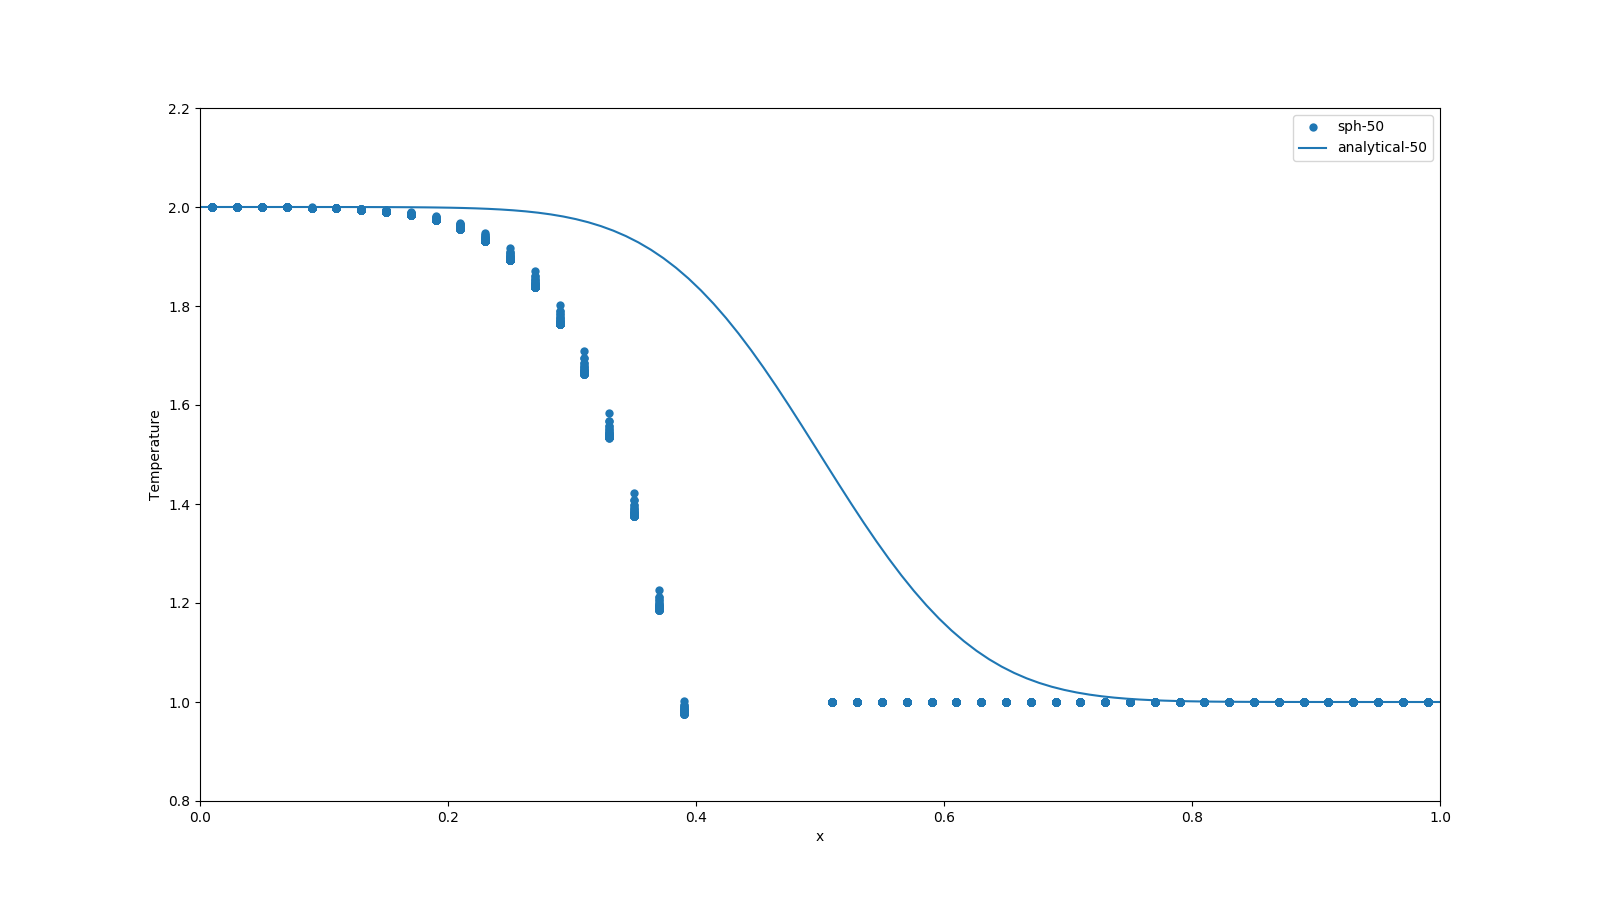
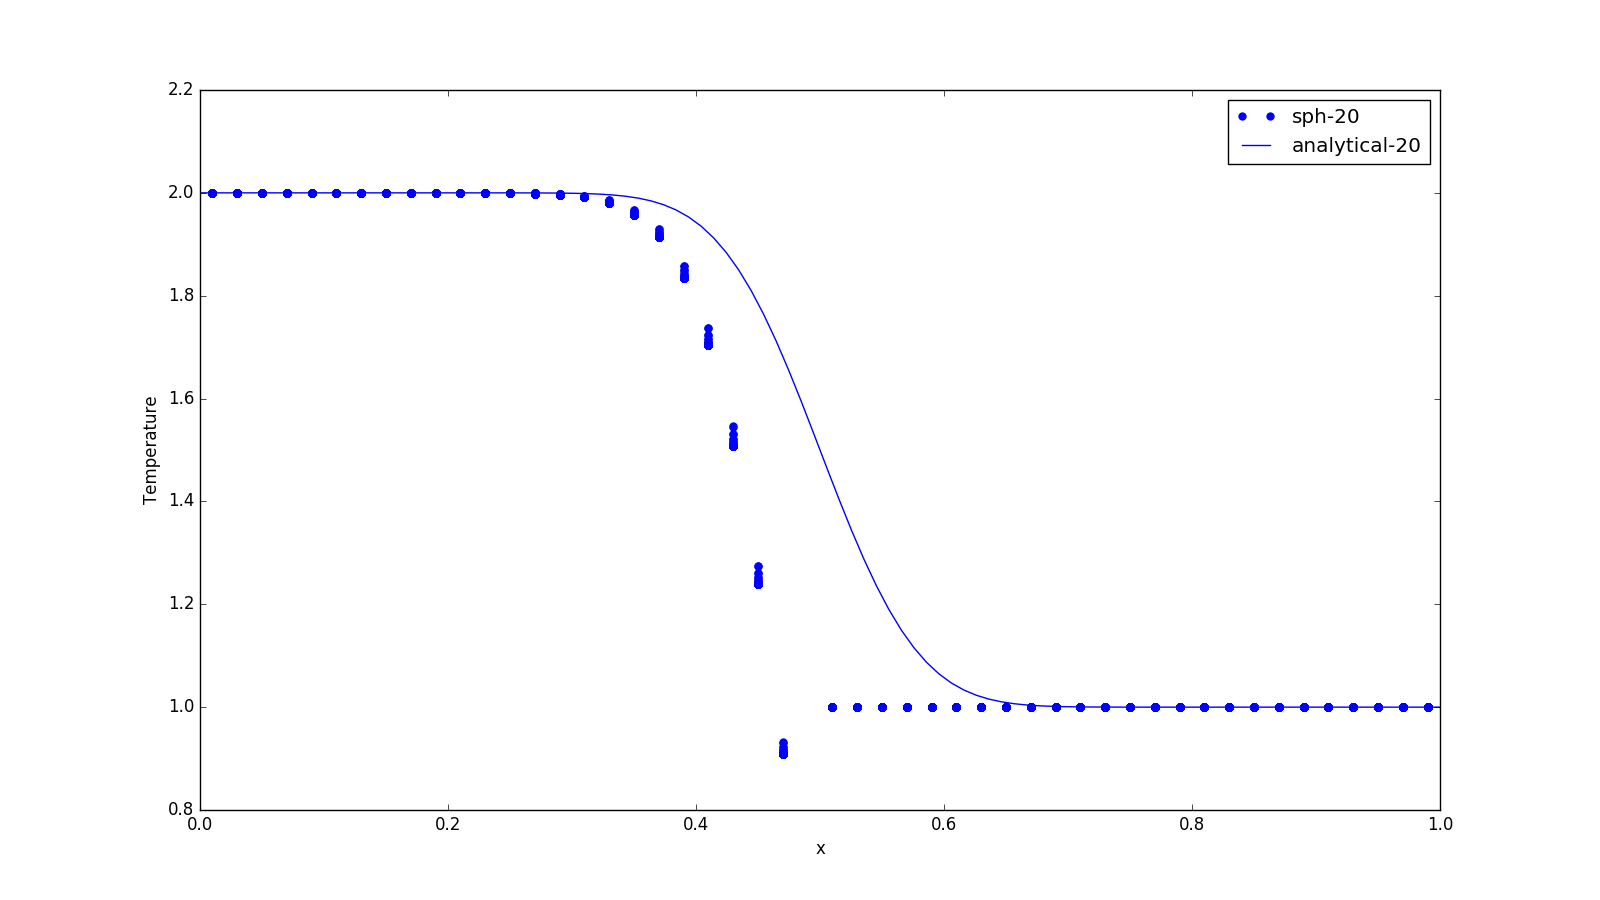
I'm confused with mA...

diff --git a/multiphase_precipitation/plot_graph.py b/multiphase_precipitation/plot_graph.py
@@ -15,7 +15,7 @@ Lx = 1.0
 xc = 0.5*Lx
 
 # Time series
-T = [50]
+T = [20]
 
 # plot
 plt.figure(figsize=(16, 9))
